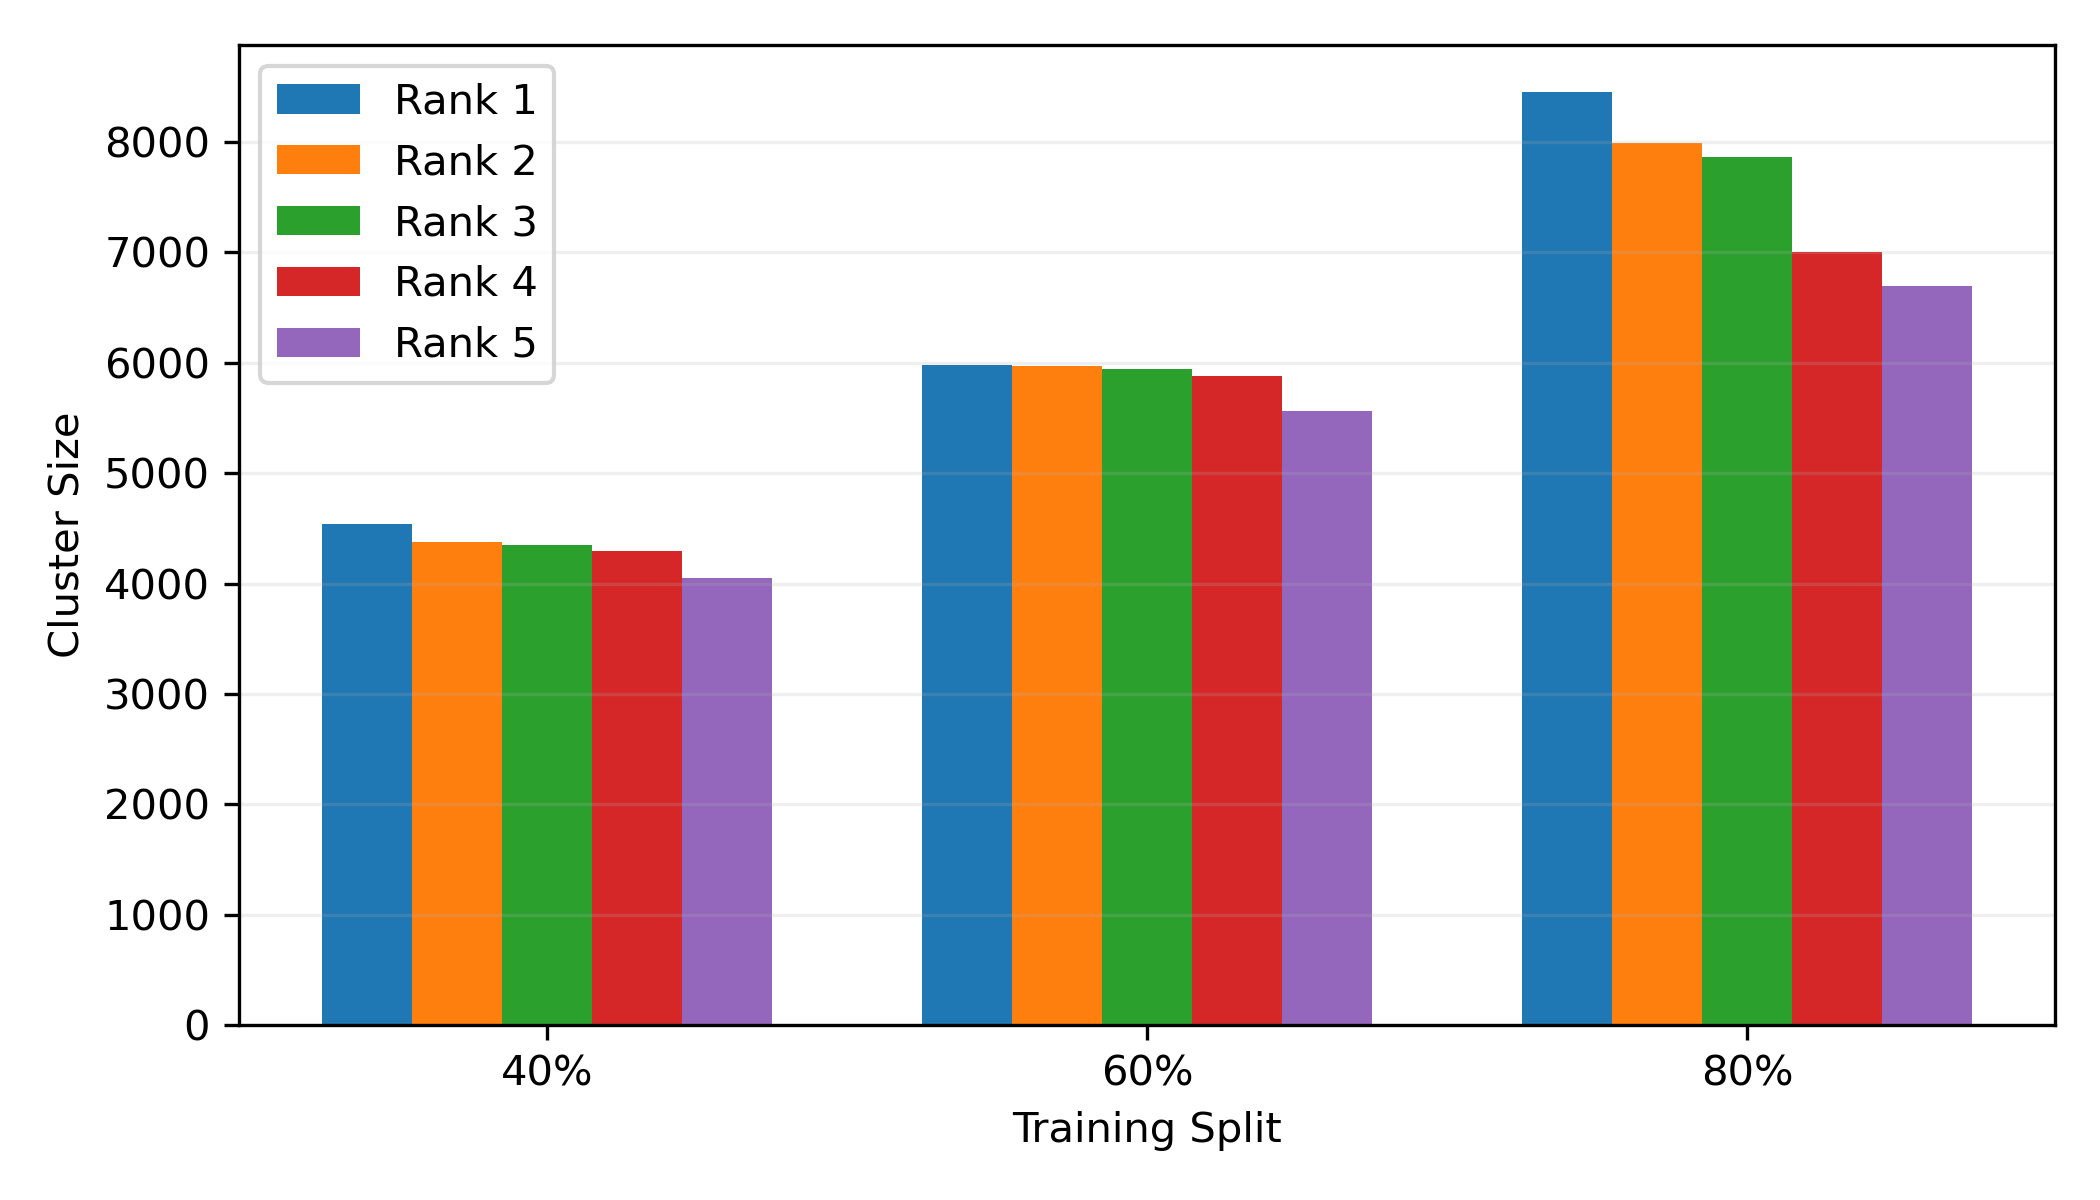
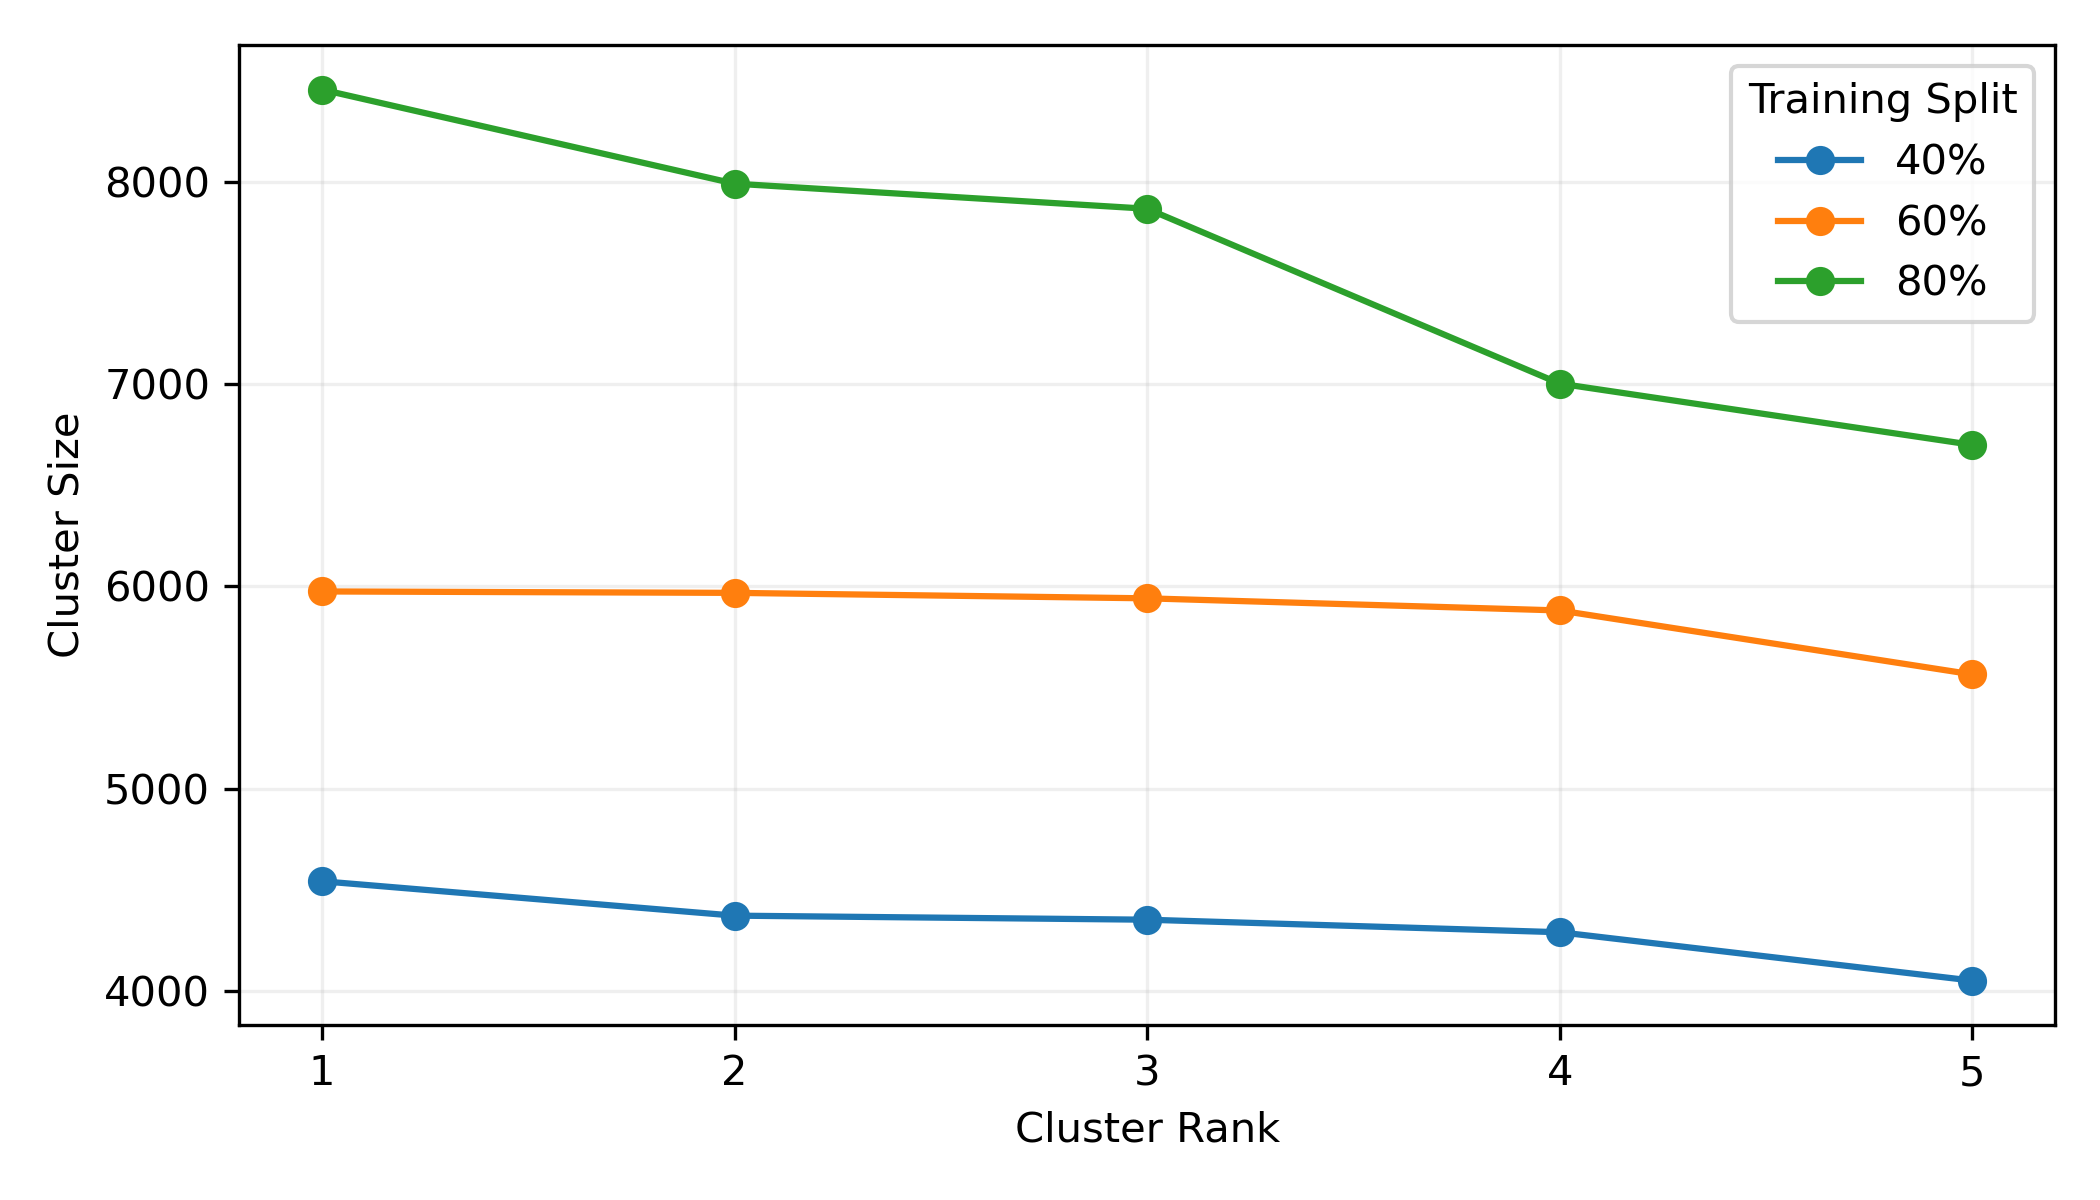
Assignment: improvements to Q2/Q4 figures

diff --git a/IJT25GM-COM6012-2026/Q4/Q4_code.py b/IJT25GM-COM6012-2026/Q4/Q4_code.py
@@ -164,44 +164,43 @@ results_df = pd.DataFrame(
 # Create training split column
 results_df['training_split'] = (results_df['train_fraction'] * 100).astype(int).astype(str) + '%'
 
-# Convert from wide to long format for plotting
-plot_df = results_df.melt(
-    id_vars=['training_split', 'als_setting'],
-    value_vars=['RMSE', 'MSE', 'MAE'],
-    var_name='Metric',
-    value_name='Value'
+# Keep rows in order
+results_df['als_setting'] = pd.Categorical(
+    results_df['als_setting'],
+    categories=['setting 1', 'setting 2'],
+    ordered=True
+)
+results_df['training_split'] = pd.Categorical(
+    results_df['training_split'],
+    categories=['40%', '60%', '80%'],
+    ordered=True
 )
 
-# Create combined label for x-axis
-plot_df['label'] = plot_df['training_split'] + '\n' + plot_df['als_setting']
+results_df = results_df.sort_values(['als_setting', 'training_split'])
 
-# Define x positions
-labels = plot_df['label'].unique()
+fig, axes = plt.subplots(1, 2, figsize=(8, 4))
+
 metrics = ['RMSE', 'MSE', 'MAE']
+settings = ['setting 1', 'setting 2']
 
-x = np.arange(len(labels))
-width = 0.25
+for ax, setting in zip(axes, settings):
+    setting_data = results_df[results_df['als_setting'] == setting]
 
-plt.figure(figsize=(7, 4))
+    for metric in metrics:
+        ax.plot(
+            setting_data['training_split'],
+            setting_data[metric],
+            marker='o',
+            label=metric
+        )
+    
+    ax.set_xlabel('Training Split')
+    ax.grid(axis='y', alpha=0.2)
 
-# Plot one bar group for each metric
-for i, metric in enumerate(metrics):
-    metric_values = plot_df[plot_df['Metric'] == metric]['Value']
-    plt.bar(
-        x + (i - 1) * width,
-        metric_values,
-        width,
-        label=metric,
-        alpha=1.0
-    )
+axes[0].set_ylabel('Error')
+fig.legend(metrics, loc='upper center', ncol=3)
 
-plt.xticks(x, labels)
-plt.ylabel('Error')
-plt.xlabel('Training split and ALS setting')
-plt.legend()
-plt.grid(axis='y', alpha=0.2)
 plt.tight_layout()
-
 plt.savefig('Q4_fig1.png', dpi=300)
 plt.close()
 
@@ -277,9 +276,10 @@ for training_split in ['40%', '60%', '80%']:
         split_data['rank'],
         split_data['cluster_size'],
         marker='o',
-        label=split
+        label=training_split
     )
 
+plt.xticks([1, 2, 3, 4, 5])
 plt.xlabel('Cluster Rank')
 plt.ylabel('Cluster Size')
 plt.legend(title='Training Split')

diff --git a/IJT25GM-COM6012-2026/Q2/Q2_code.py b/IJT25GM-COM6012-2026/Q2/Q2_code.py
@@ -349,13 +349,13 @@ for elastic_net_param in elastic_net_params:
         capsize=5,
         ms=5,
         lw=1,
-        label=f"elasticNet = {elastic_net_param}"
+        label=elastic_net_param
     )
 
 plt.xscale("log")
 plt.xlabel("regParam", fontsize=12)
 plt.ylabel("Mean Validation Accuracy", fontsize=12)
-plt.legend()
+plt.legend(title = "elasticNetParam")
 plt.tight_layout()
 plt.savefig("Q2_fig2.png")
 plt.close()
